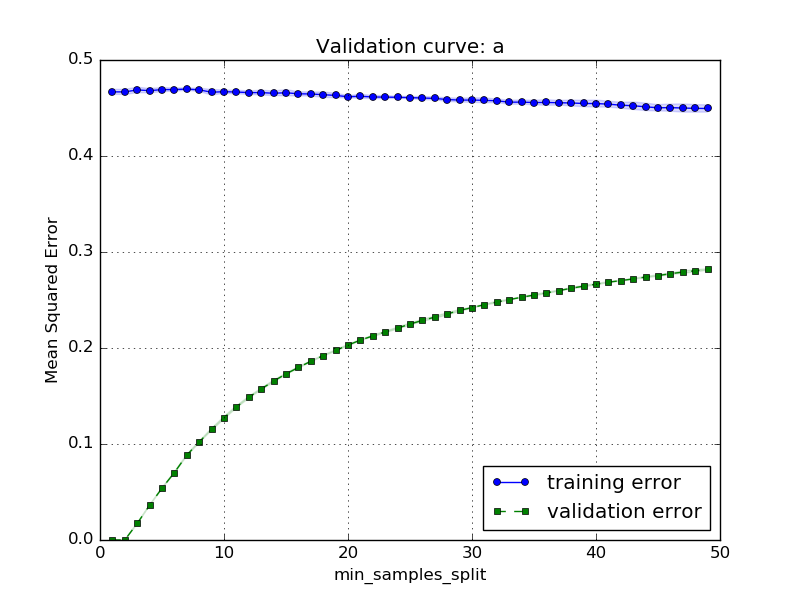
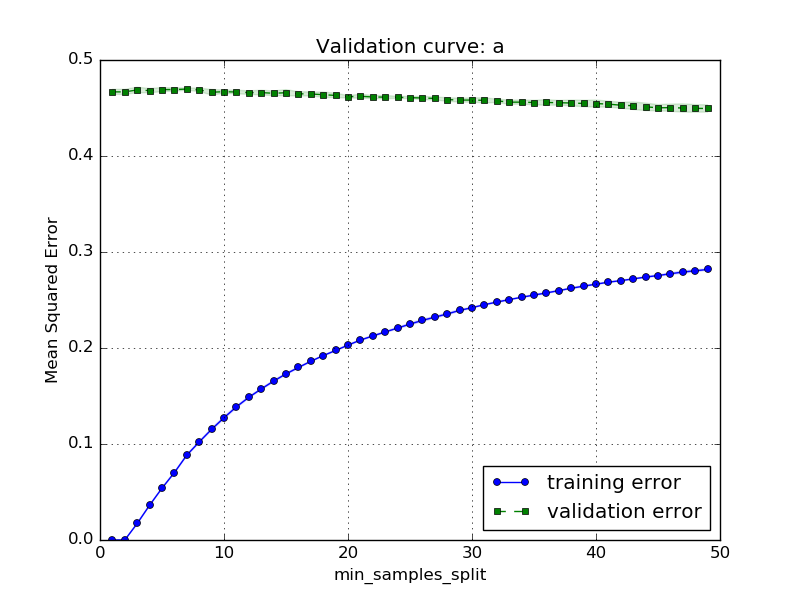
running

diff --git a/Assignment1/validation_curves.py b/Assignment1/validation_curves.py
@@ -115,9 +115,9 @@ for param_name in params_dict.keys():
             
             num_nodes_inner = clf.tree_.node_count
             
-            y_predicted_train = clf.predict(X_train[test])
+            y_predicted_train = clf.predict(X_train[train])
             # should be the same
-            train_MSE = mean_squared_error(y_train[test], y_predicted_train)
+            train_MSE = mean_squared_error(y_train[train], y_predicted_train)
             #train_MSE2 = 1. - clf.score(X_train[test], y_train[test])
             train_scores.append(train_MSE)
             
@@ -125,8 +125,8 @@ for param_name in params_dict.keys():
             #test_scores.append(test_score)
             print('Fold:', k+1, ', Training MSE:', train_MSE, ', Nodes: ', num_nodes_inner)
         
-            y_predicted_test = clf.predict(X_train[train])
-            test_MSE = mean_squared_error(y_train[train], y_predicted_test)
+            y_predicted_test = clf.predict(X_train[test])
+            test_MSE = mean_squared_error(y_train[test], y_predicted_test)
             #test_MSE2 = 1. - clf.score(X_test, y_test)
             test_scores.append(test_MSE)
             print('Test MSE:', test_MSE)
